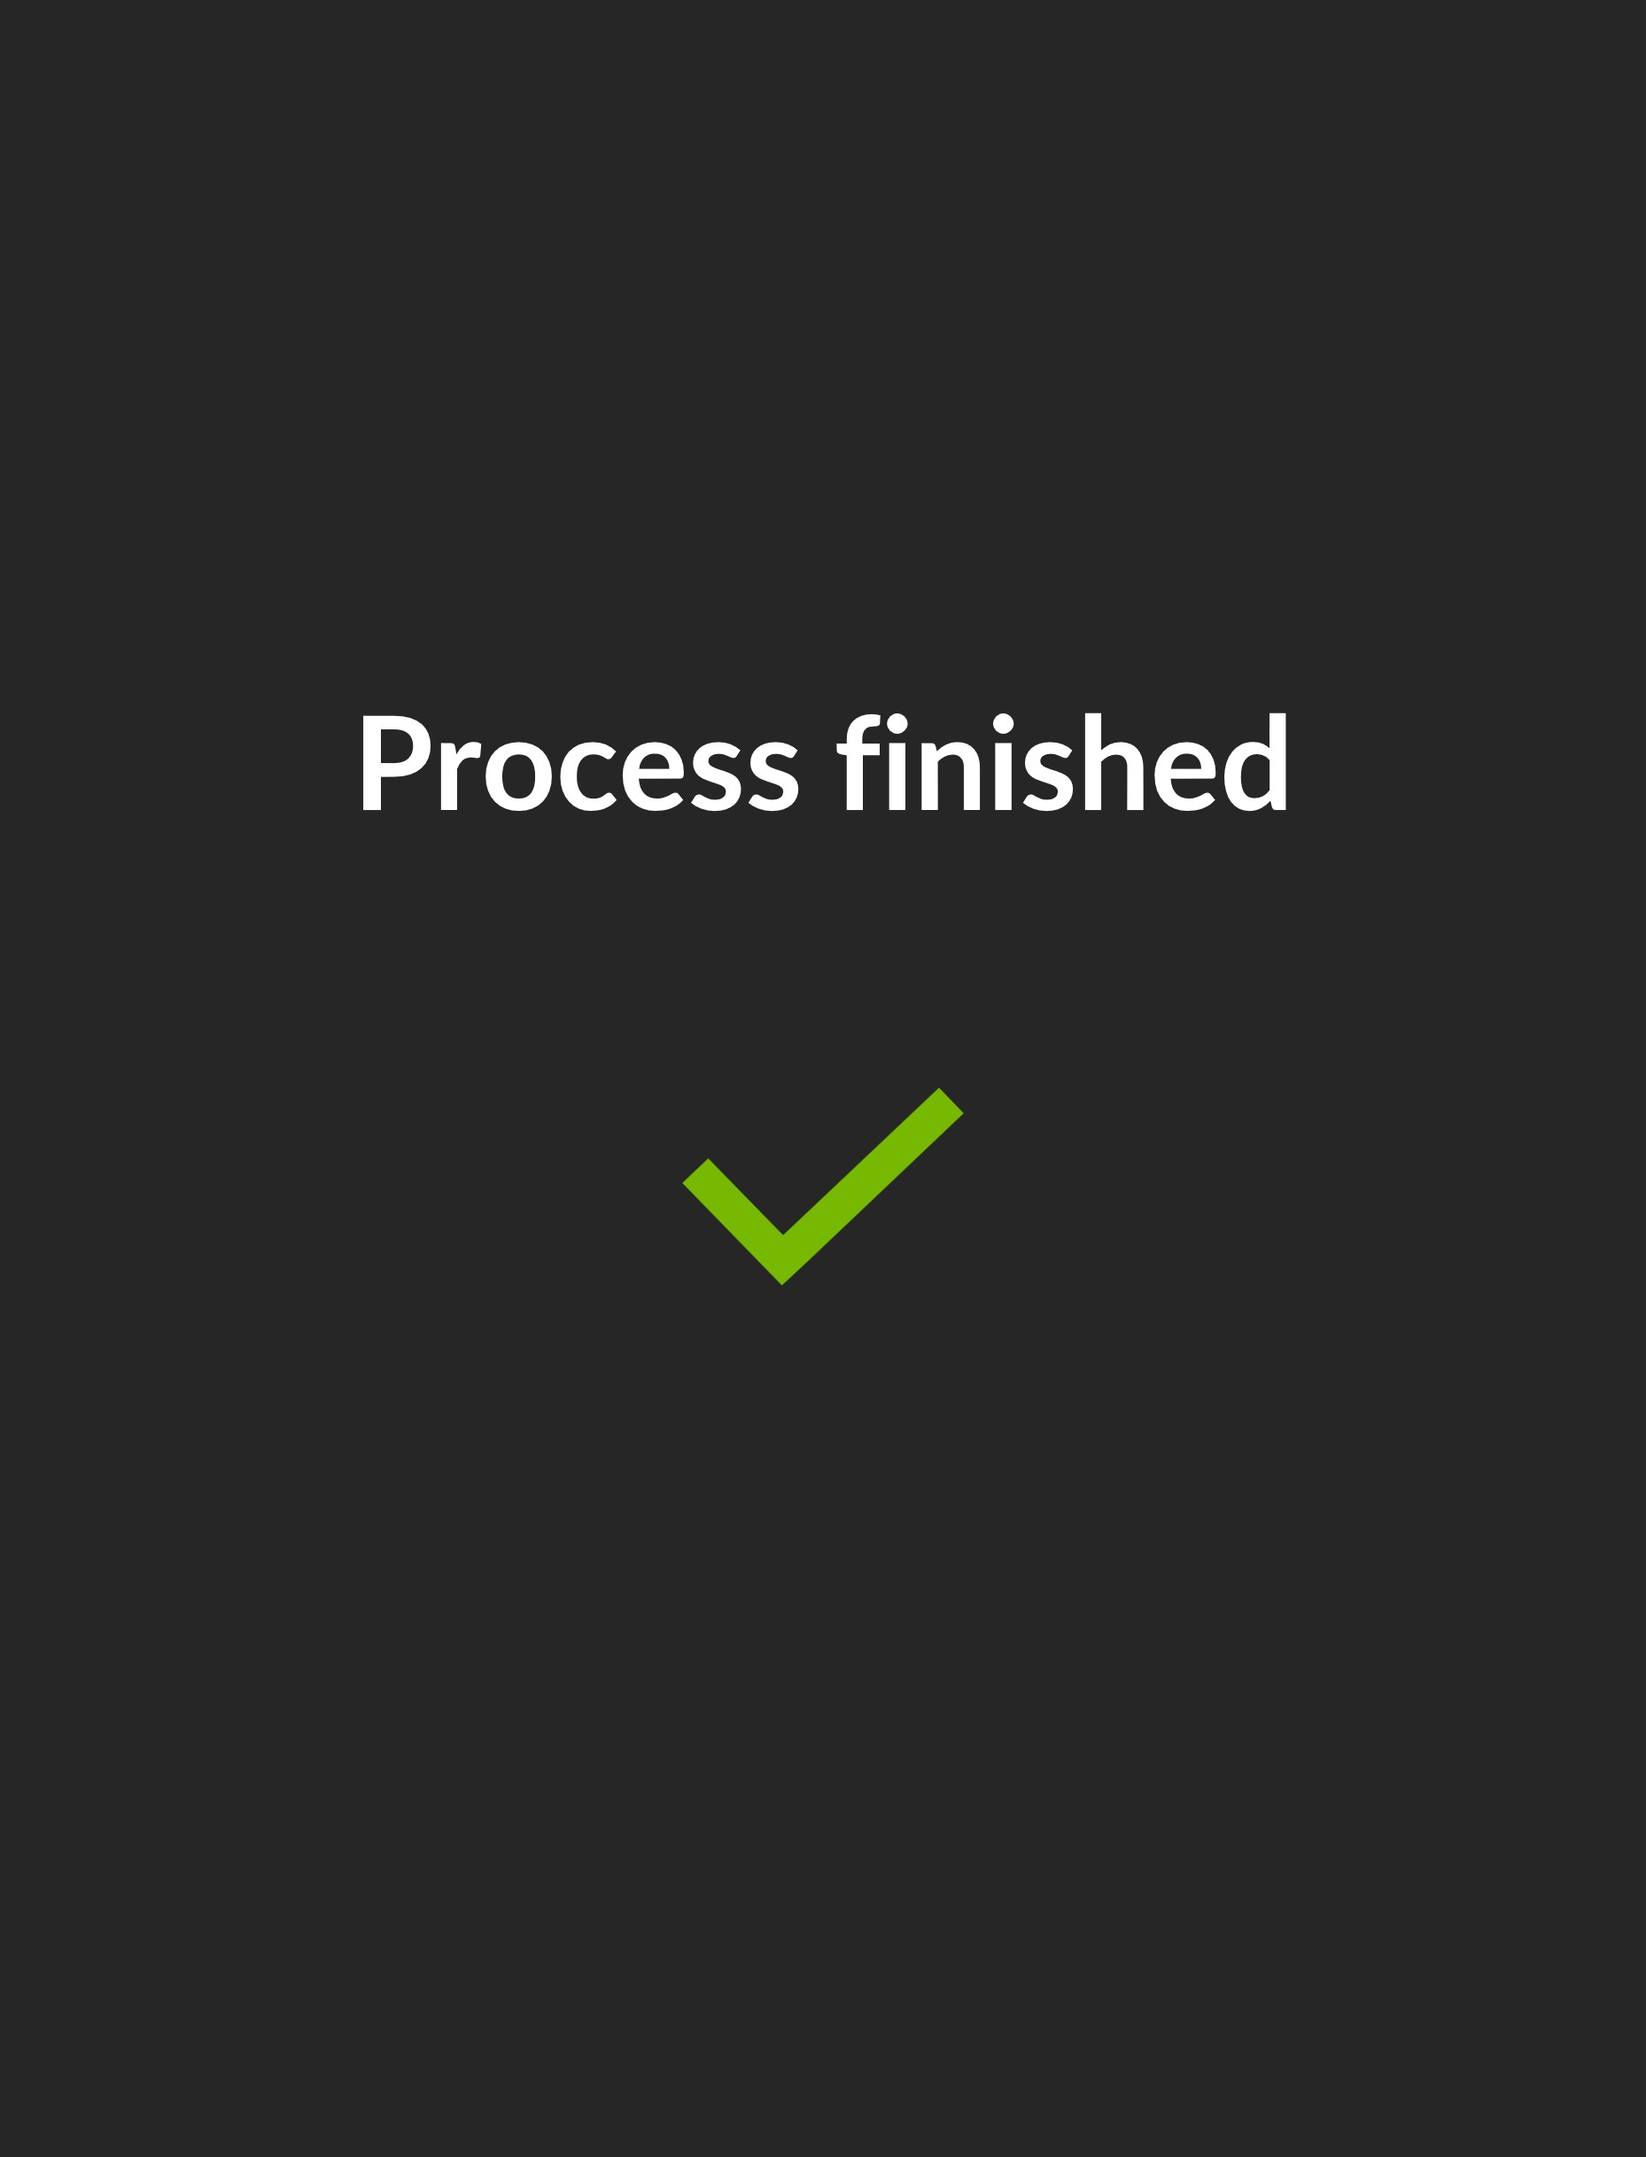
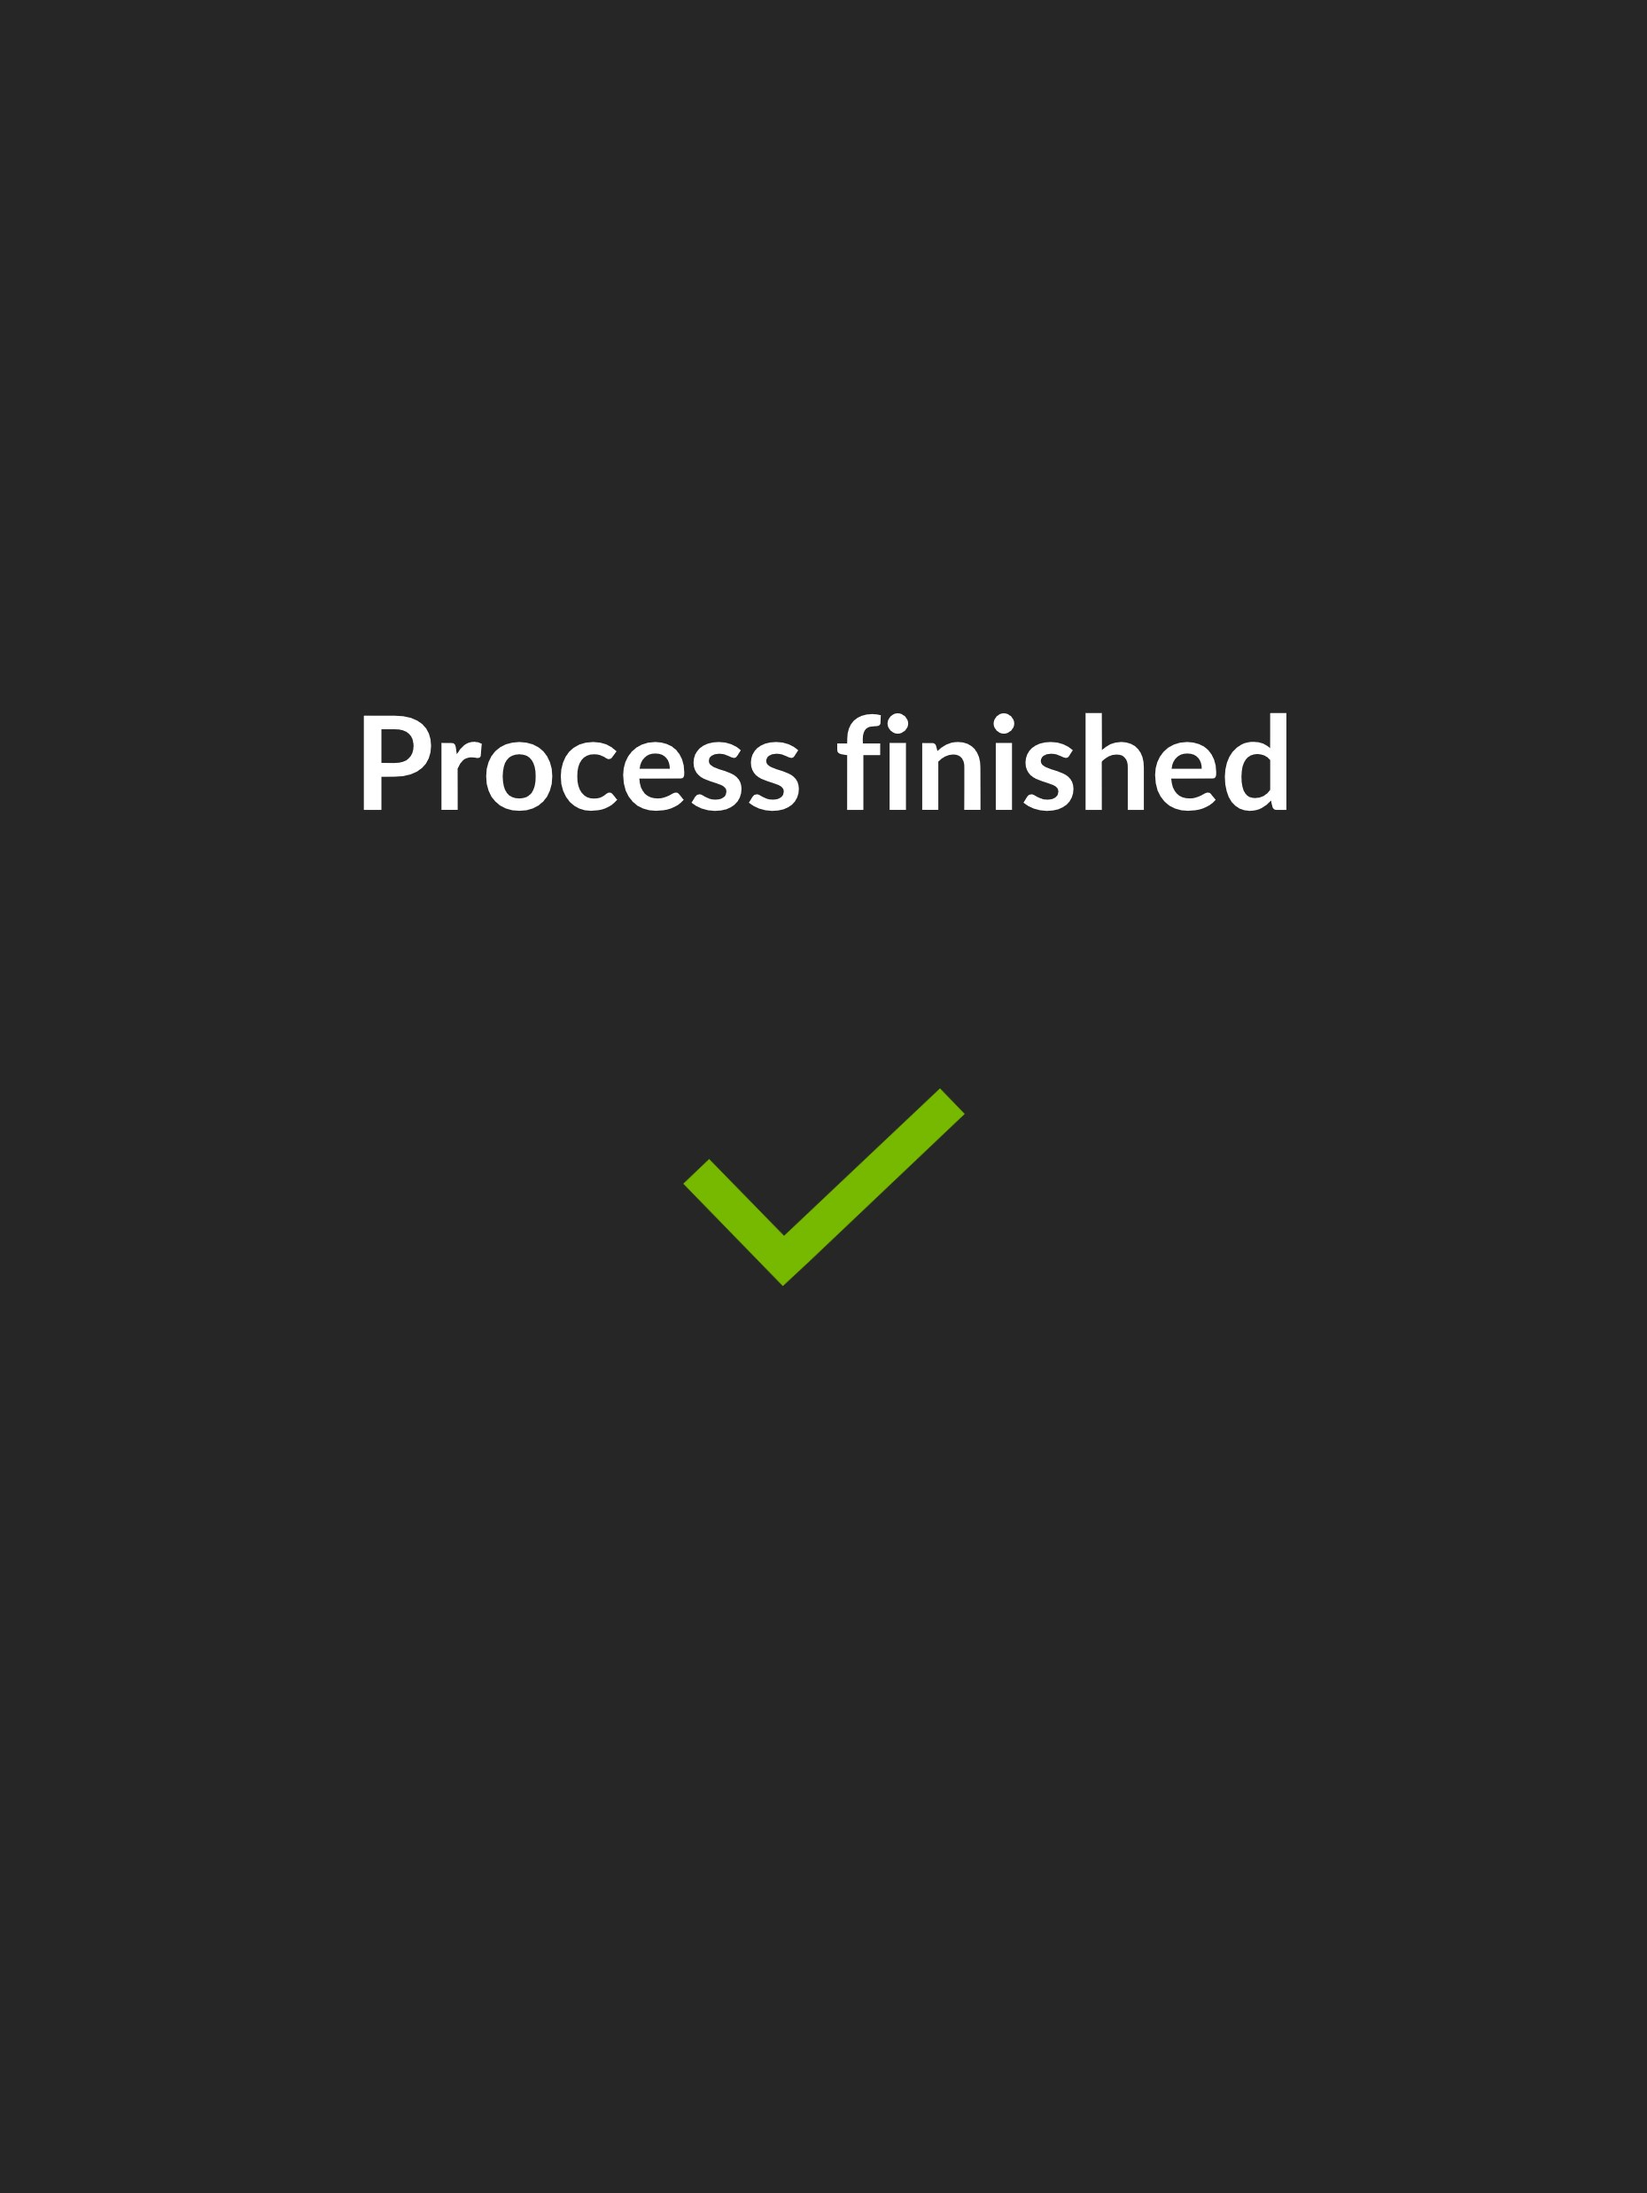
updated frontend

Changed region(s): [[0.2185, 0.3122, 0.7804, 0.3747], [0.4058, 0.4996, 0.5931, 0.5933]]

diff --git a/frontend/templates/index.html b/frontend/templates/index.html
@@ -125,7 +125,15 @@
 
           <div class="row">
             <!-- Left Container -->
-            <div class="col-sm">        
+            <div class="col-sm">   
+              <div class="row">
+                <div class="col text-center">
+                  {{ label('current_label', '/detection/current_label', 'last detected object') }}
+                </div>
+                <div class="col text-center">
+                  {{ label('next_label', '/detection/next_label', 'next object to detect') }}
+                </div>
+              </div>     
               <div class="row" style="overflow:hidden; max-height:500px">
                 <div class="col">
                   {{ image('current_label_image', '/detection/current_label_image') }}        
@@ -136,10 +144,10 @@
               </div>
               <div class="row">
                 <div class="col text-center">
-                  {{ label('current_label', '/detection/current_label', 'recognized block') }}
+                  {{ label('current_progress', '', 'current building progress') }}
                 </div>
                 <div class="col text-center">
-                  {{ label('next_label', '/detection/next_label', 'next step') }}
+                  {{ label('next_progress', '', 'next building progress      ') }}
                 </div>
               </div>
             </div>
@@ -150,7 +158,30 @@
               <div>
                 <video id="video-player" width=640 autoplay playsinline muted poster="static/images/Thumb.jpg">Your browser does not support video</video>
               </div>         
-              
+              <!-- Detection Settings -->
+              <div class="card mx-auto" style="max-width: 600px">
+                <div class="card-body">
+                {{ card_header('detection_controls', 'Settings for the detection', detection) }}
+                <div id="detection_controls">
+                    {{ slider('detection_confidence_threshold', '/detection/confidence_threshold', 'Confidence Threshold') }}
+                    {{ slider('detection_clustering_threshold', '/detection/clustering_threshold', 'Clustering Threshold') }}
+                    {{ slider('detection_overlay_alpha', '/detection/overlay_alpha', 'Overlay Alpha', min=0, max=255, step=1) }}
+                    
+                    <script type='text/javascript'>
+                    function onDetectionTrackingEnabled() {
+                        var value = document.getElementById('detection_tracking_enabled').checked;
+                        document.getElementById('detection_tracking_controls').style.display = value ? null : 'none';
+                        console.log(`onTrackingEnabled(${value})`);
+                    }
+                    </script>
+                    
+                    <script type='text/javascript'>
+                    onDetectionTrackingEnabled();  // set default visibility of tracking controls
+                    </script>
+                </div>
+                {{ collapse_handler('detection_controls') }}
+                </div>
+              </div>
             </div>
           </div>
 
@@ -209,6 +240,8 @@
                 {{ collapse_handler('stream_controls') }}
               </div>
             </div>
+
+            <!-- Building Controls -->
             <div class="card col bg-dark text-white">
               <div class="card-body">
                 <div class="card-title">
@@ -216,31 +249,6 @@
                   {{ direction('set_direction', '/detection/set_direction') }}
                 </div>
               </div>
-            </div>
-          </div>
-
-          <!-- Detection Settings -->
-          <div class="card mx-auto m-3" style="max-width: 600px">
-            <div class="card-body">
-            {{ card_header('detection_controls', 'Settings for the detection', detection) }}
-            <div id="detection_controls">
-                {{ slider('detection_confidence_threshold', '/detection/confidence_threshold', 'Confidence Threshold') }}
-                {{ slider('detection_clustering_threshold', '/detection/clustering_threshold', 'Clustering Threshold') }}
-                {{ slider('detection_overlay_alpha', '/detection/overlay_alpha', 'Overlay Alpha', min=0, max=255, step=1) }}
-                
-                <script type='text/javascript'>
-                function onDetectionTrackingEnabled() {
-                    var value = document.getElementById('detection_tracking_enabled').checked;
-                    document.getElementById('detection_tracking_controls').style.display = value ? null : 'none';
-                    console.log(`onTrackingEnabled(${value})`);
-                }
-                </script>
-                
-                <script type='text/javascript'>
-                onDetectionTrackingEnabled();  // set default visibility of tracking controls
-                </script>
-            </div>
-            {{ collapse_handler('detection_controls') }}
             </div>
           </div>
         </div>

diff --git a/frontend/static/css/bootstrap.css b/frontend/static/css/bootstrap.css
@@ -29,7 +29,7 @@
   --bs-gray-700: #495057;
   --bs-gray-800: #343a40;
   --bs-gray-900: #212529;
-  --bs-primary: #0d6efd;
+  --bs-primary: #97BC62;
   --bs-secondary: #6c757d;
   --bs-success: #198754;
   --bs-info: #0dcaf0;
@@ -71,10 +71,13 @@
   --bs-dark-border-subtle: #adb5bd;
   --bs-white-rgb: 255, 255, 255;
   --bs-black-rgb: 0, 0, 0;
-  --bs-font-sans-serif: system-ui, -apple-system, "Segoe UI", Roboto, "Helvetica Neue", "Noto Sans", "Liberation Sans", Arial, sans-serif, "Apple Color Emoji", "Segoe UI Emoji", "Segoe UI Symbol", "Noto Color Emoji";
-  --bs-font-monospace: SFMono-Regular, Menlo, Monaco, Consolas, "Liberation Mono", "Courier New", monospace;
+  --bs-font-sans-serif: system-ui,
+  -apple-system, "Segoe UI", Roboto, "Helvetica Neue", "Noto Sans", "Liberation Sans", Arial, sans-serif, "Apple Color Emoji", "Segoe UI Emoji", "Segoe UI Symbol", "Noto Color Emoji";
+  --bs-font-monospace: SFMono-Regular, Menlo, Monaco, Consolas,
+  "Liberation Mono", "Courier New", monospace;
   --bs-gradient: linear-gradient(180deg, rgba(255, 255, 255, 0.15), rgba(255, 255, 255, 0));
-  --bs-body-font-family: var(--bs-font-sans-serif);
+  --bs-body-font-family: var(
+  --bs-font-sans-serif);
   --bs-body-font-size: 1rem;
   --bs-body-font-weight: 400;
   --bs-body-line-height: 1.5;
@@ -109,7 +112,8 @@
   --bs-border-radius-lg: 0.5rem;
   --bs-border-radius-xl: 1rem;
   --bs-border-radius-xxl: 2rem;
-  --bs-border-radius-2xl: var(--bs-border-radius-xxl);
+  --bs-border-radius-2xl: var(
+  --bs-border-radius-xxl);
   --bs-border-radius-pill: 50rem;
   --bs-box-shadow: 0 0.5rem 1rem rgba(0, 0, 0, 0.15);
   --bs-box-shadow-sm: 0 0.125rem 0.25rem rgba(0, 0, 0, 0.075);
@@ -213,10 +217,12 @@ hr {
 
 h6, .h6, h5, .h5, h4, .h4, h3, .h3, h2, .h2, h1, .h1 {
   margin-top: 0;
-  margin-bottom: 0.5rem;
+  margin-bottom: 0rem;
   font-weight: 500;
   line-height: 1.2;
   color: var(--bs-heading-color);
+  padding-bottom: 0.5rem;
+  padding-top: 0.5rem;
 }
 
 h1, .h1 {
@@ -265,7 +271,8 @@ h6, .h6 {
 
 p {
   margin-top: 0;
-  margin-bottom: 1rem;
+  margin-bottom: 0rem;
+  padding-bottom: 0.5rem;
 }
 
 abbr[title] {

diff --git a/frontend/templates/macros.html b/frontend/templates/macros.html
@@ -27,7 +27,7 @@
     </script>
     <label for="{{ id }}" class="col-4">{{ label }}</label>
     <div class="col-6">
-      <input id="{{ id }}" type="range" class="form-range" min="{{ min }}" max="{{ max }}" step="{{ step }}" oninput="debounce(set_{{ id }})()">
+      <input id="{{ id }}" type="range" class="form-range" min="{{ min }}" max="{{ max }}" step="{{ step }}" oninput="debounce(set_{{ id }})()" style="accent-color:#97BC62">
     </div>
     <div id="{{ id }}_value" class="col-2">{{ value }}</div>
     <script>
@@ -70,9 +70,9 @@
     }
     
   </script>
-  <div class="nvidia-background-color text-white">
-    <p>{{ text }}</p>
-    <h1 id="{{ id }}_value">{{ value }}</h1>
+  <div class="bg-dark text-white">
+    <h3 style="margin-left: 1rem; margin-right: 1rem;">{{ text }}</h3>
+    <h4 id="{{ id }}_value" class="nvidia-text-color">{{ value }}</h4>
     <script>
       var intervalId = window.setInterval(function(){
         get_{{ id }}();

diff --git a/frontend/static/css/style.css b/frontend/static/css/style.css
@@ -1,13 +1,17 @@
 .nvidia-text-color {
-    color: #76b900;
+    color: #97BC62;
 }
 
 .nvidia-background-color {
-    background-color: #76b900;
+    background-color: #97BC62;
 }
 
 p {
     font-family: 'Lato', sans-serif;
+}
+
+a {
+    color: #97BC62;
 }
 
 /* Third Party */
@@ -28,7 +32,7 @@ p {
   border: 8px solid white;
   line-height: 88px;
   border-radius: 50%;
-  background: #76b900;
+  background: #97BC62;
   vertical-align: middle;
 }
 

diff --git a/frontend/app.py b/frontend/app.py
@@ -25,15 +25,15 @@ import os
 import flask
 import argparse
 
-from stream import Stream
-#from streamMock import StreamMock
+#from stream import Stream
+from streamMock import StreamMock
 from utils import rest_property
 from handler import Handler
     
 # run without jetson: python app.py --ssl-key data/RootCA.key --ssl-cert data/RootCA.crt --labels ../models/Single_Object/Iteration_1/lego_Iteration_1_labels.txt
 
-parser = argparse.ArgumentParser(formatter_class=argparse.RawTextHelpFormatter, epilog=Stream.usage())
-#parser = argparse.ArgumentParser(formatter_class=argparse.RawTextHelpFormatter)
+#parser = argparse.ArgumentParser(formatter_class=argparse.RawTextHelpFormatter, epilog=Stream.usage())
+parser = argparse.ArgumentParser(formatter_class=argparse.RawTextHelpFormatter)
 
 parser.add_argument("--host", default='0.0.0.0', type=str, help="interface for the webserver to use (default is all interfaces, 0.0.0.0)")
 parser.add_argument("--port", default=8050, type=int, help="port used for webserver (default is 8050)")
@@ -53,8 +53,8 @@ args = parser.parse_known_args()[0]
 # create Flask & stream instance
 app = flask.Flask(__name__)
 
-stream = Stream(args)
-#stream = StreamMock(args)
+#stream = Stream(args)
+stream = StreamMock(args)
 handler = Handler(stream, args.labels)
 
 # Whenever a user visits the root URL path, the index function is called and returns the rendered HTML 
